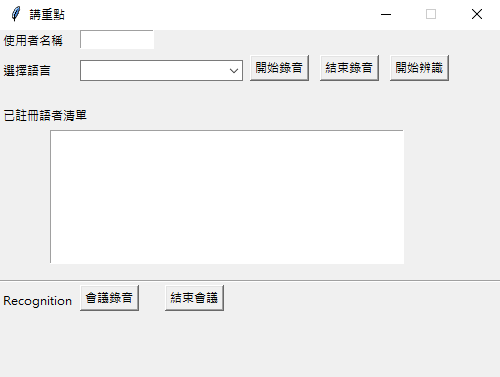
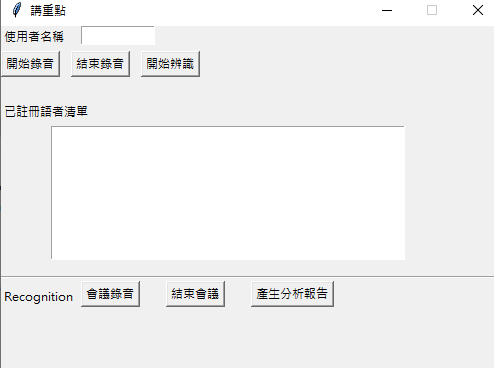
修改ui新介面

diff --git a/ui.py b/ui.py
@@ -29,15 +29,15 @@ make_dir()
 stop_event = threading.Event()
 
 # amzon 金鑰
-ID = "AKIATPZTS3RWZXB7BJAD"
-KEY = "T73Ek7PvybawSr4mfFco2YC0Bm4onLrpDH8fimyj"
+ID = ""
+KEY = ""
 
 class Threader(threading.Thread):
     def __init__(self, u, language, text, action, *args, **kwargs):
         threading.Thread.__init__(self, *args, **kwargs)
         self.daemon = True
         self.user = u
-        self.language = 'cn' if language == '中文' else 'en'
+        self.language = language
         self.text = text
         self.action = action
 
@@ -166,10 +166,10 @@ if __name__ == '__main__':
 
 
     # 建立註冊元件
-    enroll = tk.Label(window, text='選擇語言').place(x=0, y=30)
-    combo = ttk.Combobox(window, values=['中文', '英文'],
-                         state="readonly")
-    combo.place(x=80, y=30)
+    # enroll = tk.Label(window, text='選擇語言').place(x=0, y=30)
+    # combo = ttk.Combobox(window, values=['中文', '英文'],
+    #                      state="readonly")
+    # combo.place(x=80, y=30)
 
 
     # 瀏覽檔案
@@ -193,11 +193,11 @@ if __name__ == '__main__':
     # 開始錄製按鈕
     # record_label = tk.Label(window, text='Record').place(x=150, y=260)
     record_button = tk.Button(window, text='開始錄音', command=lambda: Threader(user_text.get(),
-                                                                            combo.get(),
+                                                                            'en',
                                                                             enroll_text_list,
-                                                                            action='enroll')).place(x=250, y=25)
-    record_stop_button = tk.Button(window, text='結束錄音', command=stop_event.set).place(x=320, y=25)
-    test_button = tk.Button(window, text='開始辨識', command=click).place(x=390, y=25)
+                                                                            action='enroll')).place(x=0, y=25)
+    record_stop_button = tk.Button(window, text='結束錄音', command=stop_event.set).place(x=70, y=25)
+    test_button = tk.Button(window, text='開始辨識', command=click).place(x=140, y=25)
 
     # 插入水平線
     # line2 = ttk.Separator(window,).place(x=0, y=290, relwidth=1)
